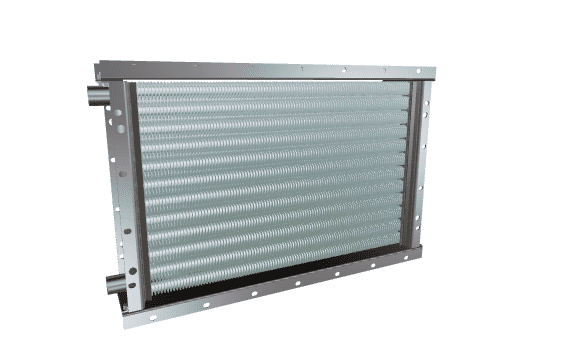
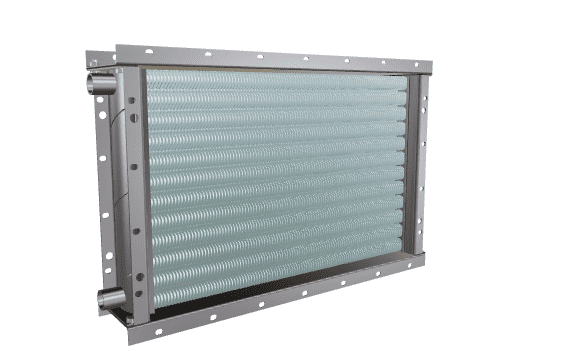
style, camera settings changes

Changed region(s): [[0.1502, 0.114, 0.7809, 0.9972]]

diff --git a/components/modelViewer.tsx b/components/modelViewer.tsx
@@ -64,13 +64,13 @@ export function ModelViewer({
             src={placeholderUrl}
             alt="3D-модель водяного калорифера"
             className="h-full w-full object-cover"
-            style={{ filter: "blur(6px)", transform: "scale(1.05)" }} // scale hides blur edges
+            style={{ filter: "blur(2px)", transform: "scale(1)" }} // scale hides blur edges
           />
           {/* Dark scrim so the button is readable over any image */}
           <div className="absolute inset-0 bg-black/20" />
           <button
             onClick={() => setIsStarted(true)}
-            className="absolute top-1/2 left-1/2 flex w-max -translate-x-1/2 -translate-y-1/2 cursor-pointer items-center gap-2 rounded-full bg-white/90 px-6 py-3 text-xs font-semibold text-gray-900 shadow-lg backdrop-blur transition hover:bg-white md:text-sm"
+            className="absolute top-1/2 left-1/2 flex w-max -translate-x-1/2 -translate-y-1/2 cursor-pointer items-center gap-2 rounded-full bg-blue-100 px-6 py-3 text-xs font-semibold text-gray-900 shadow-lg backdrop-blur transition hover:bg-white md:text-sm"
           >
             {/* Simple play/cube icon — swap for whatever fits your design */}
             <svg className="h-4 w-4" viewBox="0 0 24 24" fill="currentColor">
@@ -90,7 +90,12 @@ export function ModelViewer({
         <>
           {!isReady && <LoadingOverlay />}
 
-          <Canvas camera={{ position: [-0.5, 0.25, 1], fov: 45 }}>
+          <Canvas
+            camera={{
+              position: [-0.8, 0.2, 1.1],
+              fov: 35,
+            }}
+          >
             <directionalLight position={[-0.6, 0, -0.2]} intensity={1} />
             <directionalLight position={[0.3, -0.05, 0.4]} intensity={1.5} />
             <directionalLight position={[0, -1, 2]} intensity={1.5} />
@@ -105,7 +110,7 @@ export function ModelViewer({
 
             <OrbitControls
               enablePan={false}
-              maxDistance={1.4}
+              maxDistance={1.8}
               minDistance={0.6}
             />
           </Canvas>

diff --git a/components/catalog.tsx b/components/catalog.tsx
@@ -183,7 +183,7 @@ export default function Catalog() {
               </p>
             </Link>
           </li>
-          <li className="bg-card text-card-foreground hidden aspect-16/10 flex-col items-center gap-4 rounded-xl border px-2 pt-7 pb-6 text-center shadow-sm sm:flex sm:text-[13px] md:px-4 lg:text-sm xl:px-10 2xl:text-base">
+          <li className="bg-card text-card-foreground flex aspect-16/10 h-full flex-col items-center gap-4 rounded-xl border px-2 pt-7 pb-6 text-center shadow-sm sm:h-auto sm:text-[13px] md:px-4 lg:text-sm xl:px-10 2xl:text-base">
             <ModelViewer
               modelUrl="/models/kalorifer.glb"
               placeholderUrl="/img/home/kalorifer.png"
